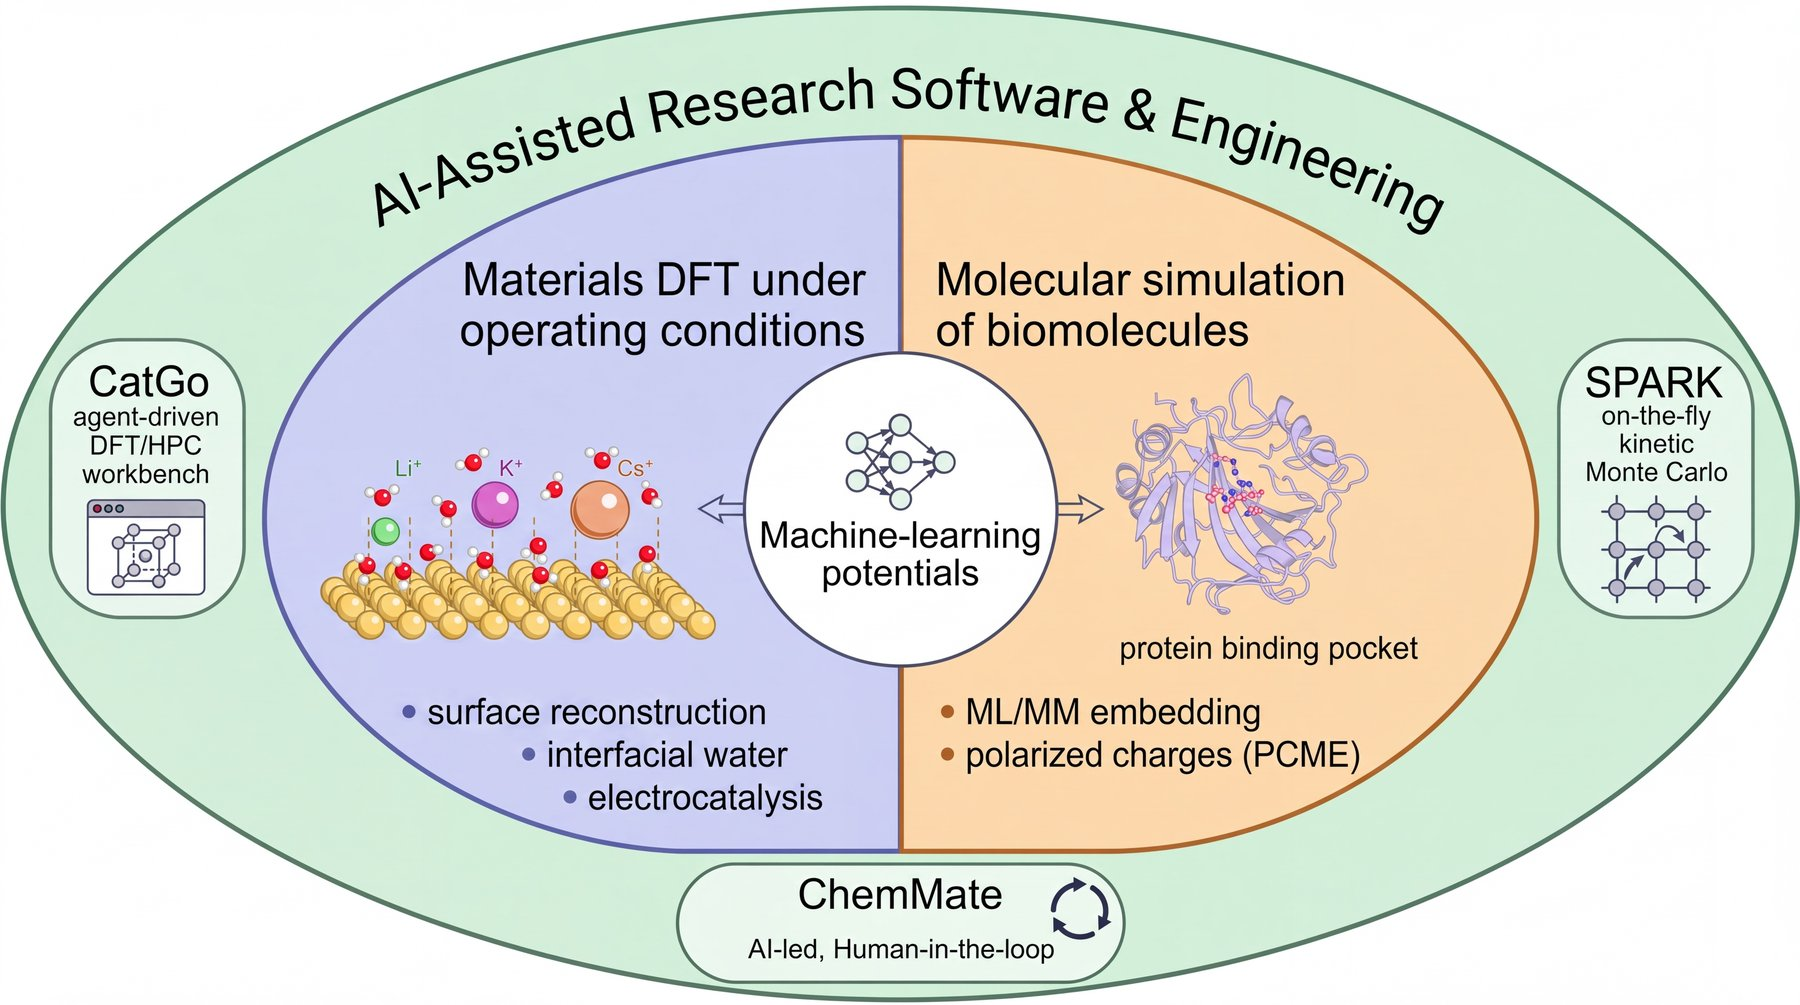
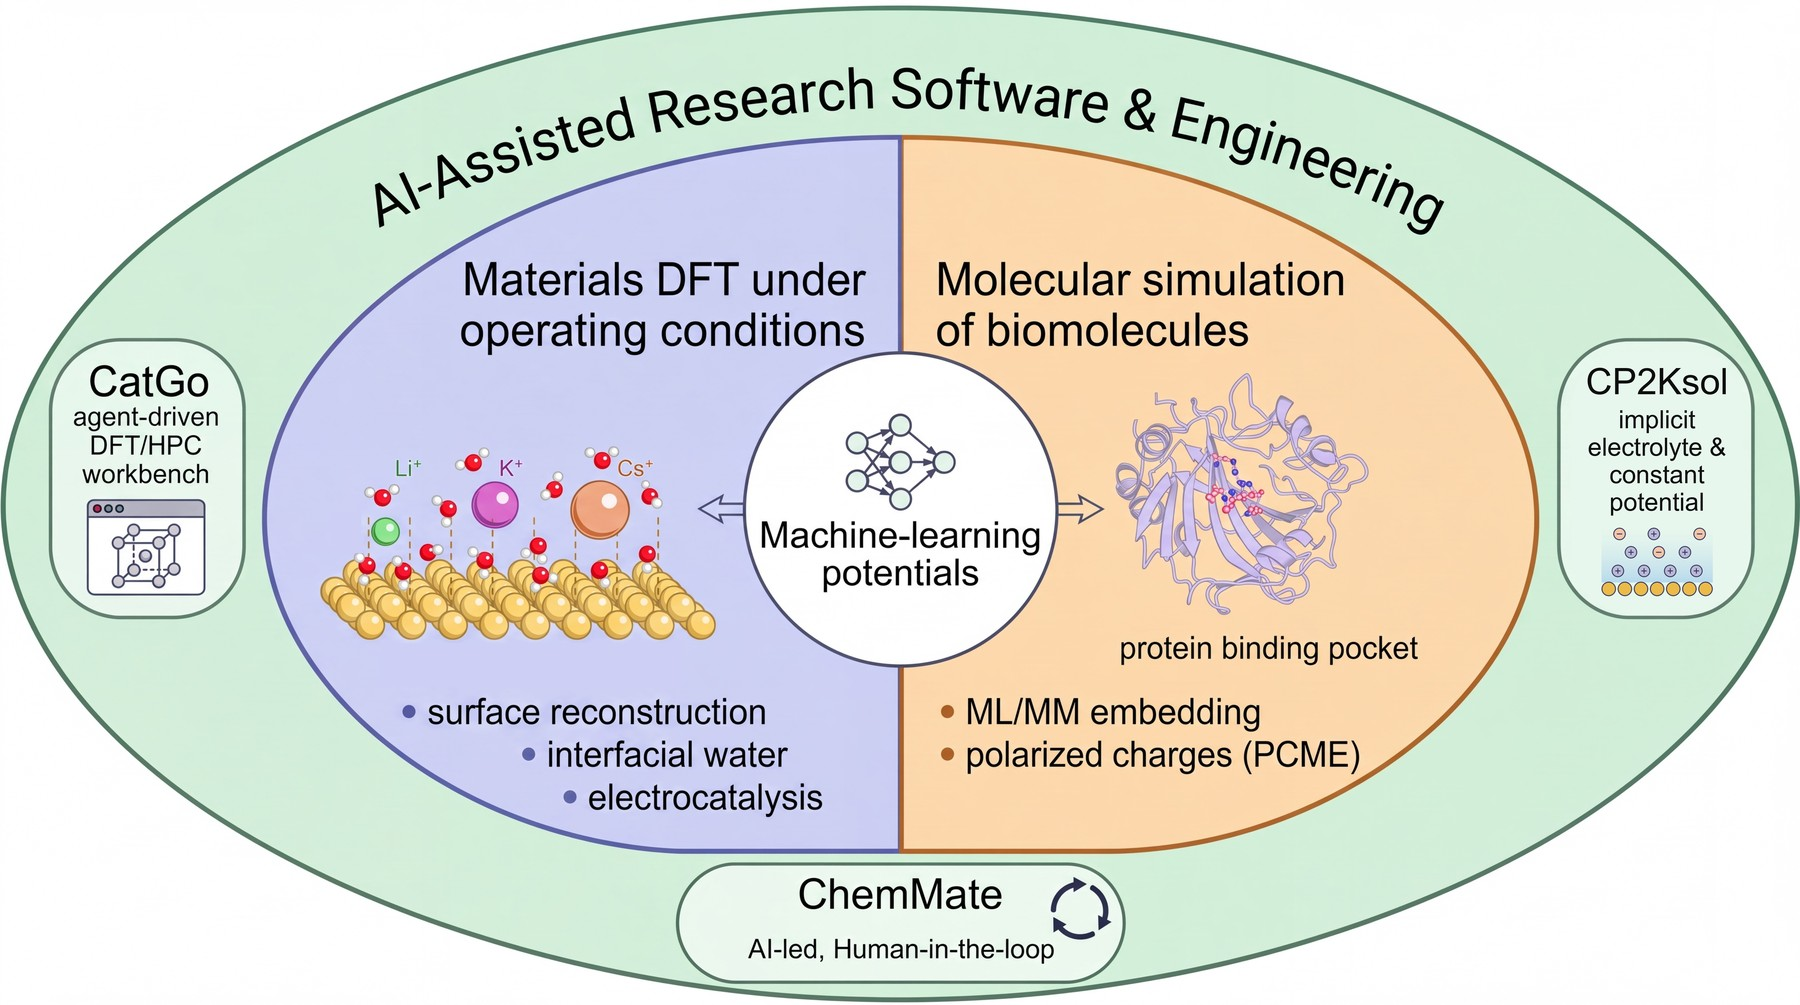
Overview figure: CP2Ksol replaces SPARK

Changed region(s): [[0.8711, 0.3393, 0.9644, 0.6169]]

diff --git a/index.html b/index.html
@@ -212,7 +212,7 @@
     <div><dt><a href="#rd">Electrostatics in Enzyme Design</a></dt><dd>ML/MM charges for protein–ligand binding, force fields fitted with machine-learning potentials</dd></div>
   </dl>
   <figure>
-    <img src="assets/research_overview.jpg" alt="Research overview: materials DFT under operating conditions and molecular simulation of biomolecules are linked by machine-learning potentials, supported by AI-assisted research software (CatGo, ChemMate, SPARK).">
+    <img src="assets/research_overview.jpg" alt="Research overview: materials DFT under operating conditions and molecular simulation of biomolecules are linked by machine-learning potentials, supported by AI-assisted research software (CatGo, ChemMate, CP2Ksol).">
   </figure>
 </section>
 </div>

diff --git a/template.html b/template.html
@@ -212,7 +212,7 @@
     <div><dt><a href="#rd">Electrostatics in Enzyme Design</a></dt><dd>ML/MM charges for protein–ligand binding, force fields fitted with machine-learning potentials</dd></div>
   </dl>
   <figure>
-    <img src="assets/research_overview.jpg" alt="Research overview: materials DFT under operating conditions and molecular simulation of biomolecules are linked by machine-learning potentials, supported by AI-assisted research software (CatGo, ChemMate, SPARK).">
+    <img src="assets/research_overview.jpg" alt="Research overview: materials DFT under operating conditions and molecular simulation of biomolecules are linked by machine-learning potentials, supported by AI-assisted research software (CatGo, ChemMate, CP2Ksol).">
   </figure>
 </section>
 </div>
